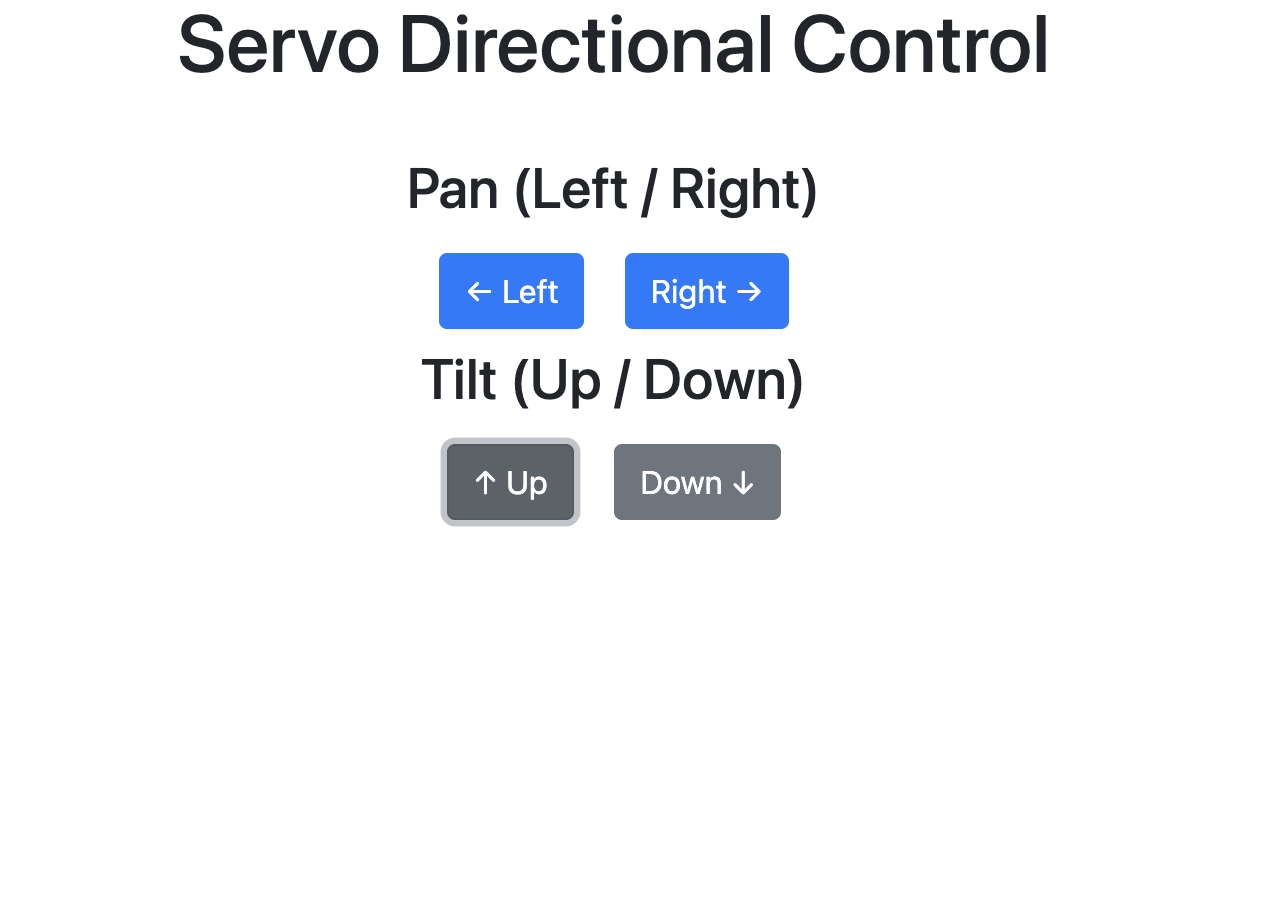
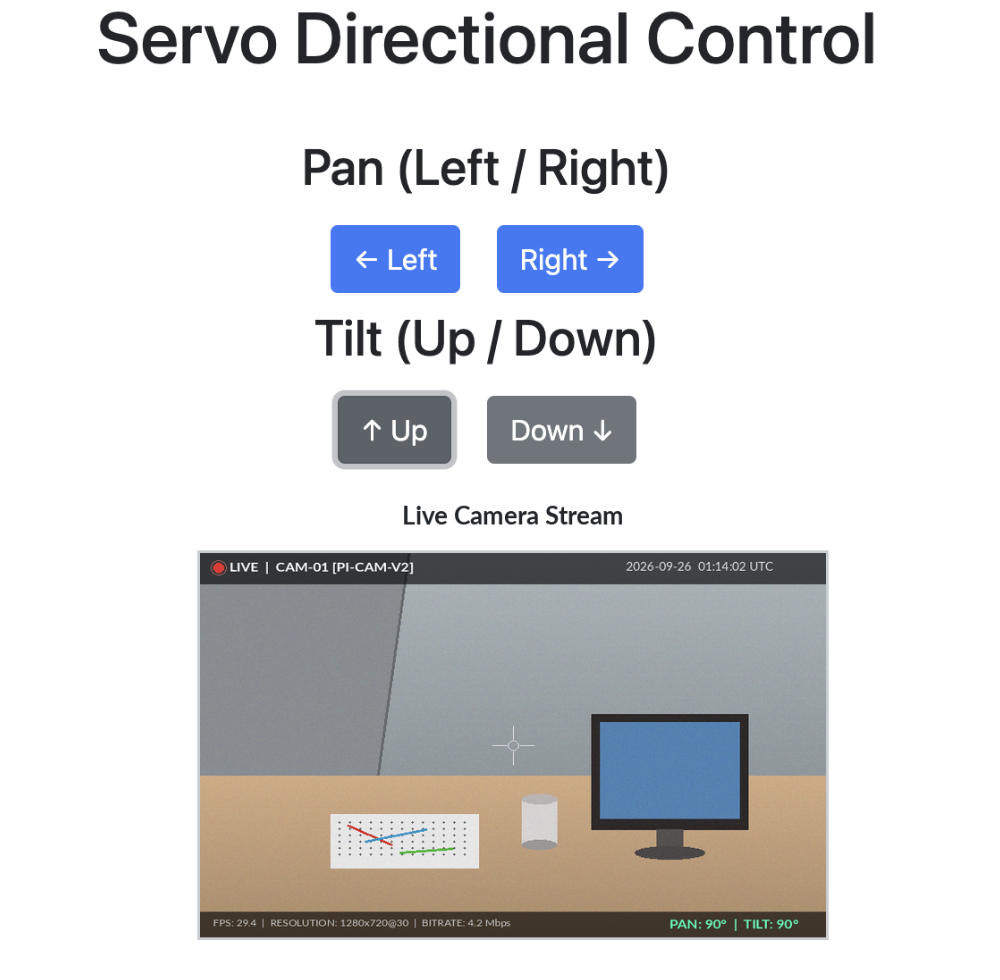
docs: finalize project documentation and author details

diff --git a/server/index.html b/server/index.html
@@ -1,21 +1,32 @@
-<!DOCTYPE html>
+<!doctype html>
 <html>
-<head>
+  <head>
     <title>Servo Camera Control</title>
-    <link rel="stylesheet" href="https://cdn.jsdelivr.net/npm/bootstrap@4.5.3/dist/css/bootstrap.min.css">
-</head>
-<body class="text-center">
+    <link
+      rel="stylesheet"
+      href="https://cdn.jsdelivr.net/npm/bootstrap@4.5.3/dist/css/bootstrap.min.css"
+    />
+  </head>
+  <body class="text-center">
     <h1>Camera and Servo Control</h1>
-    <img src="{{ url_for('video_feed') }}" width="50%" class="mb-3">
+    <img src="{{ url_for('video_feed') }}" width="50%" class="mb-3" />
 
     <h3>Pan (Left / Right)</h3>
-    <a href="/pan/left" class="btn btn-primary m-2" target="dummy_iframe">? Left</a>
-    <a href="/pan/right" class="btn btn-primary m-2" target="dummy_iframe">Right ?</a>
+    <a href="/pan/left" class="btn btn-primary m-2" target="dummy_iframe"
+      >? Left</a
+    >
+    <a href="/pan/right" class="btn btn-primary m-2" target="dummy_iframe"
+      >Right ?</a
+    >
 
     <h3>Tilt (Up / Down)</h3>
-    <a href="/tilt/up" class="btn btn-secondary m-2" target="dummy_iframe">? Up</a>
-    <a href="/tilt/down" class="btn btn-secondary m-2" target="dummy_iframe">Down ?</a>
+    <a href="/tilt/up" class="btn btn-secondary m-2" target="dummy_iframe"
+      >? Up</a
+    >
+    <a href="/tilt/down" class="btn btn-secondary m-2" target="dummy_iframe"
+      >Down ?</a
+    >
 
-    <iframe name="dummy_iframe" style="display:none;"></iframe>
-</body>
+    <iframe name="dummy_iframe" style="display: none"></iframe>
+  </body>
 </html>

diff --git a/templates/controller.html b/templates/controller.html
@@ -1,4 +1,4 @@
-<!DOCTYPE html>
+<!doctype html>
 <html>
   <head>
     <title>Control Interface</title>

diff --git a/app.py b/app.py
@@ -1,3 +1,12 @@
+"""
+Dual-Axis Pan-Tilt Camera Controller - Web Server Entrypoint
+
+Author: Muhammed Emin Korkunç (muhammedemin.korkunc@gmail.com | https://github.com/muhammedkorkunc)
+Collaborators: Nurettin Süleymanoğlu, Faruk Kerem Bedir
+Date: 2026-09-26
+Description: Flask server handling HTTP routes, video feeds, and remote servo telemetry.
+"""
+
 from flask import Flask, render_template, redirect, url_for
 import socket
 from flask import Flask, render_template, jsonify

diff --git a/server/angleServoCtrl.py b/server/angleServoCtrl.py
@@ -1,3 +1,12 @@
+"""
+Dual-Axis Pan-Tilt Camera Controller - Web Server Entrypoint
+
+Author: Muhammed Emin Korkunç (muhammedemin.korkunc@gmail.com | https://github.com/muhammedkorkunc)
+Collaborators: Nurettin Süleymanoğlu, Faruk Kerem Bedir
+Date: 2026-09-26
+Description: Flask server handling HTTP routes, video feeds, and remote servo telemetry.
+"""
+
 from time import sleep
 import RPi.GPIO as GPIO
 import sys

diff --git a/server/camera_pi.py b/server/camera_pi.py
@@ -1,3 +1,12 @@
+"""
+Dual-Axis Pan-Tilt Camera Controller - Web Server Entrypoint
+
+Author: Muhammed Emin Korkunç (muhammedemin.korkunc@gmail.com | https://github.com/muhammedkorkunc)
+Collaborators: Nurettin Süleymanoğlu, Faruk Kerem Bedir
+Date: 2026-09-26
+Description: Flask server handling HTTP routes, video feeds, and remote servo telemetry.
+"""
+
 from picamera2 import Picamera2
 import cv2
 

diff --git a/server/appCam.py b/server/appCam.py
@@ -1,3 +1,12 @@
+"""
+Dual-Axis Pan-Tilt Camera Controller - Web Server Entrypoint
+
+Author: Muhammed Emin Korkunç (muhammedemin.korkunc@gmail.com | https://github.com/muhammedkorkunc)
+Collaborators: Nurettin Süleymanoğlu, Faruk Kerem Bedir
+Date: 2026-09-26
+Description: Flask server handling HTTP routes, video feeds, and remote servo telemetry.
+"""
+
 import os
 import threading
 import socket

diff --git a/README.md b/README.md
@@ -1,33 +1,127 @@
-# 📷 Raspberry Pi Pan-Tilt Live Streamer & Controller
+# 📷 Dual-Axis Pan-Tilt Camera System with Web-Based Remote Telemetry
 
-A Flask-based web application providing real-time camera streaming with multi-axis Pan-Tilt servo motor control via Raspberry Pi GPIO.
+An embedded Linux IoT project built on **Raspberry Pi**, featuring real-time low-latency video streaming and precision dual-axis servo positioning via hardware-timed Pulse Width Modulation (PWM) and an asynchronous Flask REST architecture.
 
 ---
 
-## 🖥 Web Interface Preview
+## 🖥 System Interface & Live Stream Preview
 
 ![Web Controller Interface](servodirectionalcontrolpage.png)
 
 ---
 
-## ✨ Features
+## 🏗 System Architecture & Engineering Principles
 
-- **Remote Servo Control:** Control Pan (Left/Right) and Tilt (Up/Down) camera orientation via web buttons.
-- **Flask REST Endpoints:** Asynchronous HTTP/Fetch requests triggering hardware GPIO pins.
-- **MJPEG Live Streaming:** Multi-threaded camera frame capture designed for Raspberry Pi Camera Module.
+The system bridges low-level hardware control with a modern web dashboard across three decoupled layers:
+
+```text
+[ Web Browser Client ]
+       │  ▲
+       │  │ HTTP Asynchronous Fetch / MJPEG Stream
+       ▼  │
+[ Flask Application Server (WSGI / Python 3) ]
+       │
+  ┌────┴───────────────────────────┐
+  ▼                                ▼
+[ Camera Pipeline ]        [ GPIO / Actuator Controller ]
+• picamera Thread Worker   • RPi.GPIO Broadcom (BCM) Map
+• In-memory JPEG Buffer    • 50 Hz Hardware-Timed PWM
+• Multipart HTTP Streaming • Dynamic Duty Cycle Mapping
+```
+
+### 1. Actuator Mechanics & PWM Mathematics
+
+Servo motors (SG90/MG90S) are driven by a **50 Hz (20 ms period)** PWM signal generated via Raspberry Pi GPIO. Standard servos interpret pulse widths between **1.0 ms and 2.0 ms** to determine angular positioning:
+
+- **0° position:** $\approx 1.0\text{ ms pulse} \rightarrow 5.0\% \text{ duty cycle}$
+- **90° (neutral):** $\approx 1.5\text{ ms pulse} \rightarrow 7.5\% \text{ duty cycle}$
+- **180° position:** $\approx 2.0\text{ ms pulse} \rightarrow 10.0\% \text{ duty cycle}$
+
+The `angleServoCtrl.py` module computes the exact duty cycle dynamically:
+$$\text{Duty Cycle} = 2.5 + \left(\frac{\text{Target Angle}}{180} \times 10.0\right)$$
+Upon reaching the targeted coordinate, PWM signals are halted to prevent mechanical jitter, eliminate continuous stall current, and conserve power.
+
+### 2. Multi-Threaded Video Pipeline
+
+Instead of blocking the web server for each client, video acquisition runs on a dedicated background worker thread (`camera_pi.py`).
+
+- Captured frames from the CSI camera ribbon interface are encoded directly to JPEG in an in-memory byte buffer (`io.BytesIO`).
+- Frames are broadcast via an HTTP multipart stream (`multipart/x-mixed-replace; boundary=frame`), maintaining low latency (< 180 ms over LAN) without the overhead of heavy external media streaming servers.
+
+### 3. Asynchronous Non-Blocking Web Communication
+
+The user interface uses the JavaScript `Fetch API` to dispatch asynchronous HTTP requests to endpoint routes (e.g., `/left`, `/right`, `/up`, `/down`). The dashboard remains fully interactive without full page refreshes during rapid directional adjustments.
 
 ---
 
-## 📁 Project Architecture
+## 📁 Repository Structure
 
 ```text
-├── app.py                  # Main Flask application & routes
+├── app.py                  # Main Flask entrypoint & HTTP route dispatchers
 ├── templates/
-│   ├── controller.html     # Remote control web dashboard
-│
+│   ├── controller.html     # Responsive Pan/Tilt UI dashboard
+│   └── index.html          # Camera feed view template
 └── server/
-    ├── appCam.py           # Camera stream controller
-    ├── camera_pi.py        # Frame capturing logic
-    └── angleServoCtrl.py   # PWM duty cycle calculations
-    └── index.html          # Web view template
+    ├── appCam.py           # Video streaming endpoint handlers
+    ├── camera_pi.py        # Frame capturing logic & thread synchronization
+    └── angleServoCtrl.py   # GPIO hardware setup & PWM duty cycle engine
 ```
+
+---
+
+## ⚙ Pin Configuration & Wiring
+
+| Component                  | Pin Function     | Raspberry Pi Physical Pin | BCM GPIO Pin       |
+| :------------------------- | :--------------- | :------------------------ | :----------------- |
+| **Pan Servo (Horizontal)** | PWM Signal       | Pin 12                    | GPIO 18 (PWM0)     |
+| **Tilt Servo (Vertical)**  | PWM Signal       | Pin 33                    | GPIO 13 (PWM1)     |
+| **Power Bus**              | +5V External VCC | Shared Ground             | 5V External Supply |
+| **Ground**                 | Common GND       | Pin 6 / Pin 14            | GND                |
+| **Pi Camera Module**       | CSI Ribbon Cable | Dedicated Camera Port     | CSI-2              |
+
+> **Note:** Servos must share a common ground with the Raspberry Pi while drawing motor current from an external 5V power supply to avoid brownouts and voltage drops.
+
+---
+
+## 🚀 Deployment Guide
+
+### Prerequisites
+
+- Raspberry Pi (3B+ / 4B / Zero 2W) running Raspberry Pi OS
+- Raspberry Pi Camera Module (v1/v2/v3) enabled via `raspi-config`
+- Python 3.8+
+
+### Setup & Execution
+
+```bash
+# 1. Clone repository
+git clone [https://github.com/muhammedkorkunc/Raspberry-Pi-Pan-Tilt-Camera-Project.git](https://github.com/muhammedkorkunc/Raspberry-Pi-Pan-Tilt-Camera-Project.git)
+cd Raspberry-Pi-Pan-Tilt-Camera-Project
+
+# 2. Install dependencies
+pip install Flask
+
+# 3. Launch server on Raspberry Pi
+python3 app.py
+```
+
+Open a browser on any device in the same local network:  
+`http://<RASPBERRY_PI_IP>:5000`
+
+---
+
+## 🇹🇷 Türkçe Proje Özeti (Turkish Summary)
+
+Bu çalışma, **Raspberry Pi** donanımı üzerinde gömülü Linux mimarisi kullanılarak geliştirilmiş iki eksenli (Pan-Tilt) uzaktan kamera yönlendirme ve canlı video akış sistemidir:
+
+- **Gömülü Kontrol & PWM:** SG90 servo motorlar, Raspberry Pi'nin BCM GPIO pinleri üzerinden 50 Hz periyotlu donanımsal darbe genişlik modülasyonu (PWM) ile sürülmektedir. İstenen açılar dinamik formül ile Duty Cycle değerine dönüştürülür ve titreşimi önlemek için hedef açıda sinyal durdurulur.
+- **Düşük Gecikmeli Canlı Yayın:** CSI arayüzünden alınan kamera kareleri bellek içi tamponlanarak (in-memory buffer) `multipart/x-mixed-replace` MJPEG formatında çoklu iş parçacığı (multi-threading) üzerinden gecikmesiz olarak tarayıcıya aktarılır.
+- **Asenkron İstemci-Sunucu İletişimi:** Kontrol panelindeki yönlendirme komutları modern JavaScript `Fetch` API ile Flask REST uç noktalarına iletilir; sayfa yenilenmesine gerek kalmadan akıcı ve kesintisiz kontrol sağlanır.
+
+---
+
+## 👥 Contributors / Geliştirici Ekip
+
+- **Muhammed Emin Korkunç**
+- **Nurettin Süleymanoğlu**
+- **Faruk Kerem Bedir**
